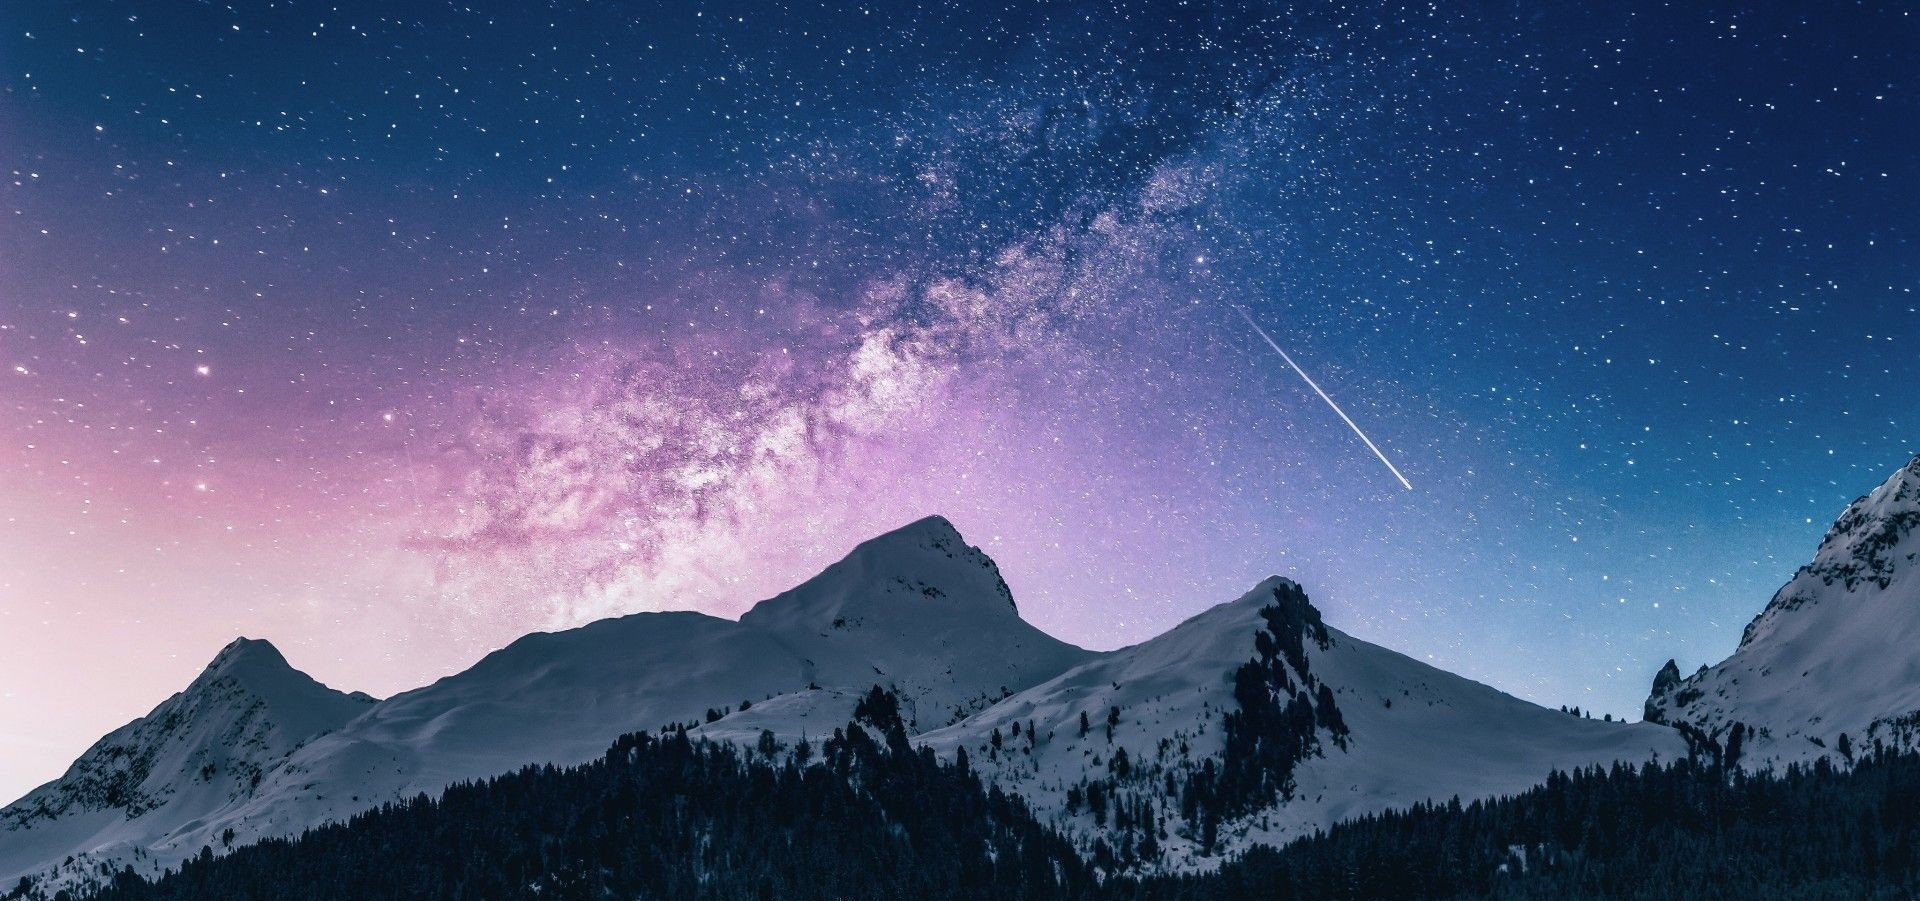
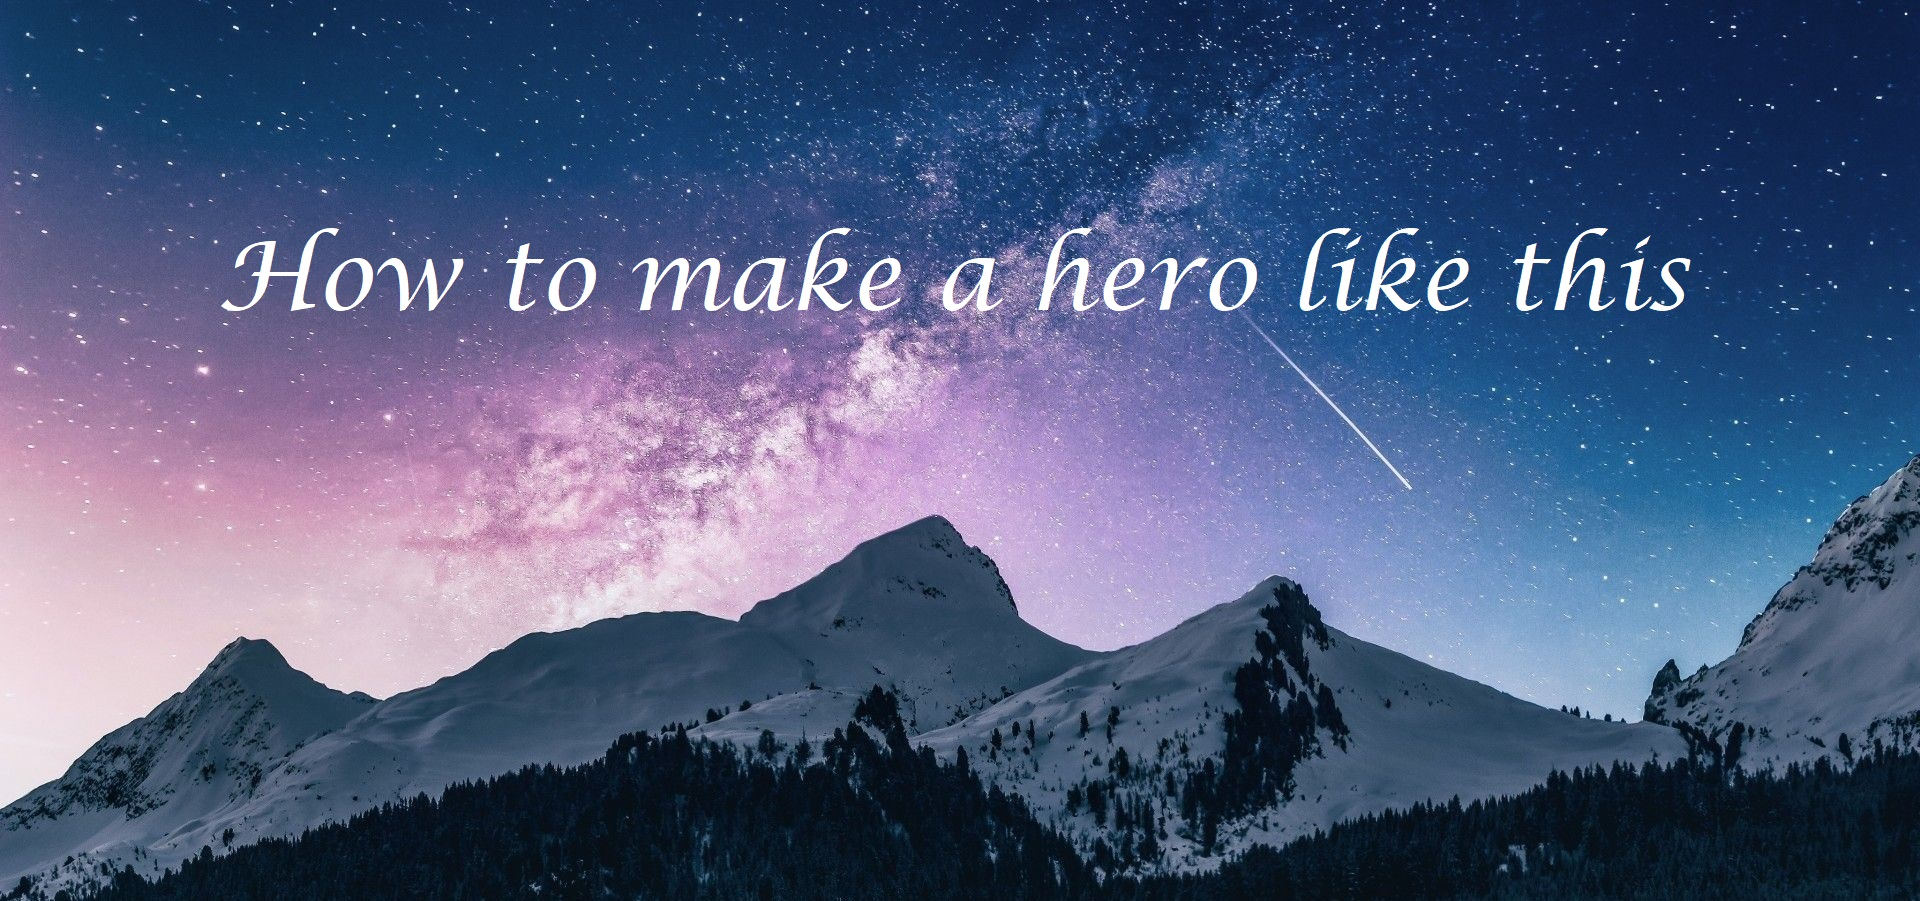
Post dau tien

Changed region(s): [[0.125, 0.2486, 0.875, 0.3418]]

diff --git a/home/home.html b/home/home.html
@@ -71,8 +71,7 @@
 								<div class="card card__mid">
 									<a href="../post/post1.html">
 										<img src="../assets/img/cover.jpg" alt="anh 1" class="img1">
-									</a>
-									<a href="../post/post1.html" class="hero">How to make a hero like this</a>											
+									</a>											
 									<div class="mid__content">
 										<div class="mid__content--top">
 											<div class="mid__content--top-meta">
@@ -86,9 +85,19 @@
 											</div>
 										</div>
 										<div class="mid__content--body">
-											<div>2</div>
-											<div>3</div>
-											<div>4</div>
+											<div class="body__article">
+												<a href="../post/post1.html">How to make a hero like this ?</a>
+											</div>
+											<div class="body__tag">
+												<a href="#">#position</a>
+												<a href="#">#font-size</a>
+												<a href="#">#margin</a>
+											</div>
+											<div class="body__interact">
+												<div class="reaction">reactions</div>
+												<div class="comment">comments</div>
+												<div class="btn__later">Watch later</div>
+											</div>
 										</div>
 									</div>
 								</div>
@@ -103,7 +112,7 @@
 					<div class="content--items item3">
 						<div class="content--items__box">
 							<div class="content--items__core">
-								<div>1.1</div>
+								<div class="card">1.1</div>
 								<div>1.2</div>
 								<div>1.3</div>
 							</div>

diff --git a/assets/css/home.css b/assets/css/home.css
@@ -220,15 +220,6 @@ ul{
     height: 308px;
     margin-bottom: 8px ;
 }
-.hero{
-    position: absolute;
-    top: 25%;
-    right: 38%;
-    color: var(--white-color);
-    font-weight: 600;
-    font-size: xx-large;
-    text-align: center;
-}
 .img2{
     width: 32px;
     height: 32px;
@@ -264,4 +255,29 @@ ul{
     padding: 0px 0px 0px 37px;
     display: flex;
     flex-direction: column;
+}
+.body__article{
+    margin-bottom: 8px;
+    font-size: 250%;
+    padding-right: 57px;
+    color: var(--text-color);
+}
+.body__article > a:hover{
+    color: var(--btn-hover-color);
+    opacity: 0.7;
+}
+.body__tag{
+    color: var(--text-color);
+    opacity: 0.7;
+    font-weight: lighter;
+    margin-bottom: 8px;
+    font-size: small;
+}
+.body__tag > a{
+    margin-left: 10px;
+}
+.body__interact{
+    display: flex;
+    flex-direction: row;
+    justify-content: space-between;
 }
